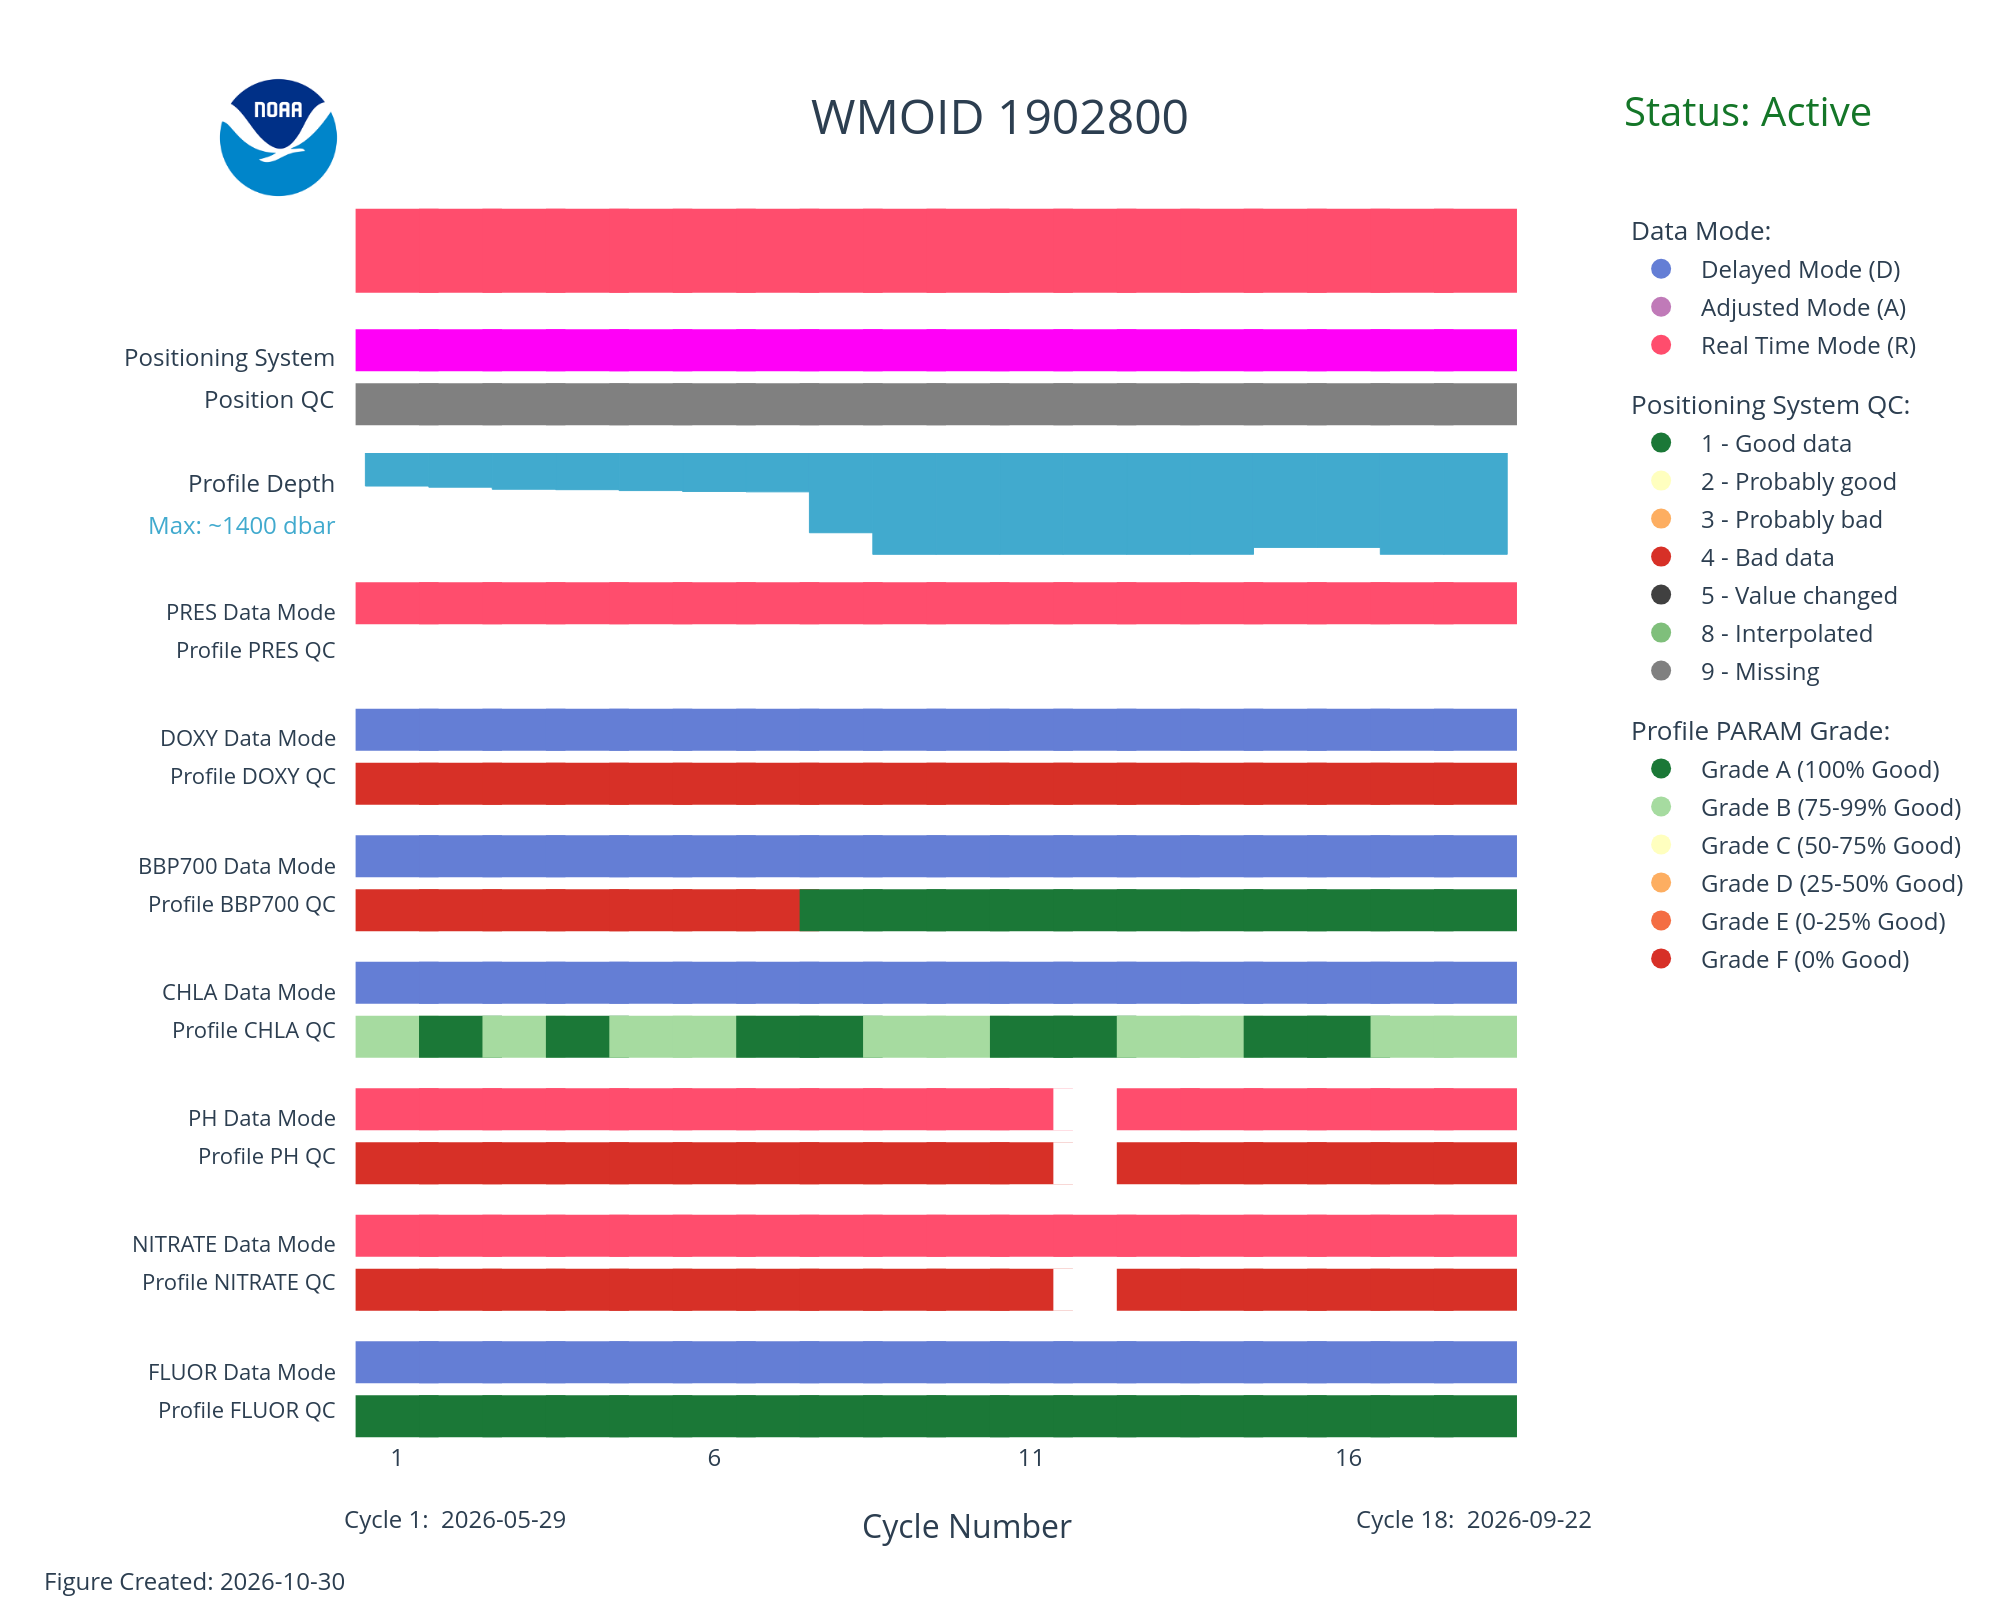
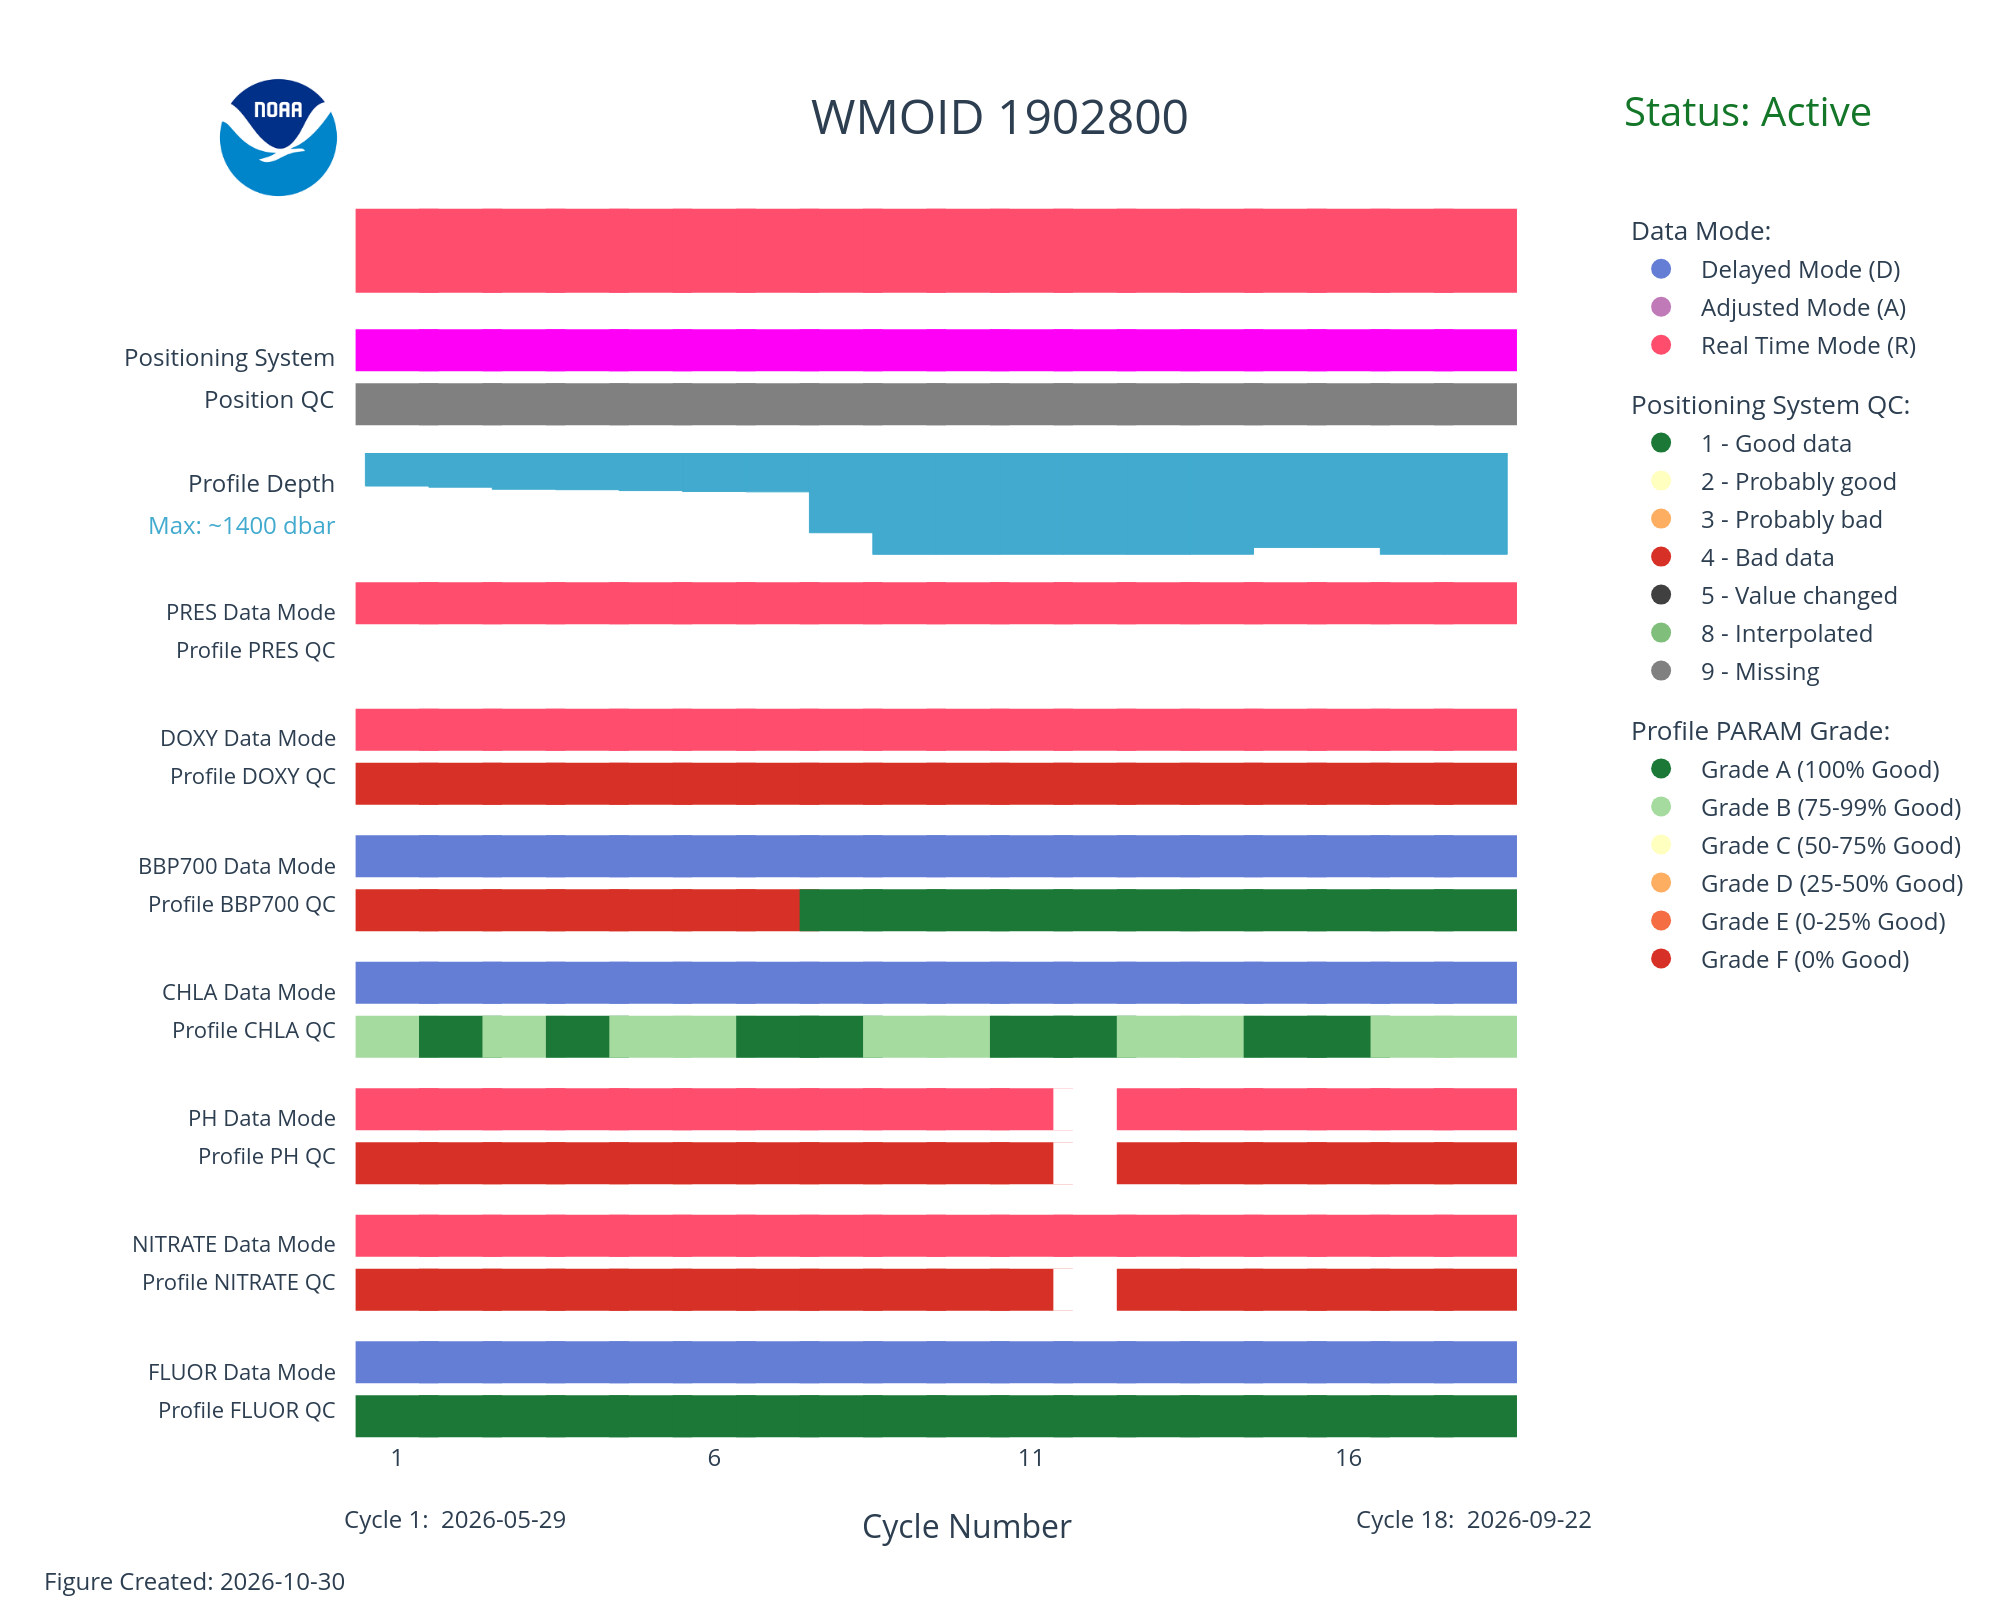
BD filler updated
This has been updated for correctness, missing data will still be an issue in the file checker as the consistency between R and D-modes throws an error.

Changed region(s): [[0.155, 0.4375, 0.775, 0.4688]]

diff --git a/Script/BD_Filler_BioOptics_DOXY.py b/Script/BD_Filler_BioOptics_DOXY.py
@@ -2,7 +2,7 @@
 # coding: utf-8
 
 # ==============================================================================
-# SECTION 1: Library Imports & Helper Functions
+# SECTION 1: Library Imports & Global Constants
 # ==============================================================================
 import datetime
 import gc
@@ -40,7 +40,7 @@ FLOAT_TYPES = {
     4903622: "aoml_apex",
     2904010: "aoml_apex",
     2904011: "aoml_apex",
-    4903624: "aoml_apex",
+    # 4903624 excluded from analysis
     4903625: "aoml_apex",
     4903904: "aoml_navis",
     6999992: "aoml_navis",
@@ -127,12 +127,23 @@ def is_missing_value(val):
 # SECTION 2: Architecture & NetCDF Helper Functions
 # ==============================================================================
 
+def safe_rename(from_file, to_file):
+    gc.collect()
+    try:
+        os.replace(from_file, to_file)
+    except OSError:
+        try:
+            shutil.copyfile(from_file, to_file)
+            os.remove(from_file)
+        except Exception:
+            pass
+
+
 def is_broken_sensor_float(WMOfloatid, cycle_num):
     float_str = str(WMOfloatid)
     cycle_num = int(cycle_num)
     return (
-        (float_str == "4903624")
-        | ((float_str == "2904010") & (cycle_num >= 49))
+        ((float_str == "2904010") & (cycle_num >= 49))
         | ((float_str == "2904011") & (cycle_num >= 24))
     )
 
@@ -255,9 +266,10 @@ def get_param_data_mode(bgc_file, iprof, param_base):
     return "R"
 
 
-def write_parameter_data_modes(bgc_file):
+def write_parameter_data_modes(bgc_file, WMOfloatid=None):
     n_param = bgc_file.dimensions["N_PARAM"].size
     n_prof = bgc_file.dimensions["N_PROF"].size
+    skip_doxy = WMOfloatid in DOXY_EXCLUDE_FLOAT_IDS if WMOfloatid is not None else False
 
     pdm = bgc_file.variables["PARAMETER_DATA_MODE"][:]
     data_mode = bgc_file.variables["DATA_MODE"][:]
@@ -275,6 +287,9 @@ def write_parameter_data_modes(bgc_file):
             ]).strip()
 
             if not p_str or "PH" in p_str or "NITRATE" in p_str:
+                continue
+
+            if skip_doxy and p_str == "DOXY":
                 continue
 
             if p_str == "PRES" or p_str.startswith("DOWN_IRRADIANCE") or p_str.startswith("UP_RADIANCE"):
@@ -503,7 +518,6 @@ def write_chla_BBP_adjusted(bgc_file, WMOfloatid, idx_profile, df_bio, iprof_idx
         CHLA_AdjustedQC_Array = get_existing_array("CHLA_ADJUSTED_QC", is_char=True)
         CHLA_Adjusted_ERROR_Array = get_existing_array("CHLA_ADJUSTED_ERROR")
 
-        # Fixed multi-element array boolean check bug by passing candidate list
         FLUORESCENCE_CHLA_Adjusted_Array = get_existing_array(["CHLA_FLUORESCENCE_ADJUSTED", "FLUORESCENCE_CHLA_ADJUSTED"])
         FLUORESCENCE_CHLA_AdjustedQC_Array = get_existing_array(["CHLA_FLUORESCENCE_ADJUSTED_QC", "FLUORESCENCE_CHLA_ADJUSTED_QC"], is_char=True)
         FLUORESCENCE_CHLA_Adjusted_ERROR_Array = get_existing_array(["CHLA_FLUORESCENCE_ADJUSTED_ERROR", "FLUORESCENCE_CHLA_ADJUSTED_ERROR"])
@@ -517,7 +531,6 @@ def write_chla_BBP_adjusted(bgc_file, WMOfloatid, idx_profile, df_bio, iprof_idx
             if matched_row is None:
                 continue
 
-            # Update CHLA only if valid in CSV
             if "CHLA_FINAL" in matched_row and pd.notna(matched_row.get("CHLA_FINAL")):
                 chla_final_val = matched_row.get("CHLA_FINAL")
                 if not is_missing_value(chla_final_val):
@@ -529,7 +542,6 @@ def write_chla_BBP_adjusted(bgc_file, WMOfloatid, idx_profile, df_bio, iprof_idx
                     if CHLA_Adjusted_ERROR_Array is not None:
                         CHLA_Adjusted_ERROR_Array[i] = np.float32(CHLA_Adjusted_ERROR_est)
 
-            # Update Fluorescence only if valid in CSV
             if fluo_csv_col is not None and pd.notna(matched_row.get(fluo_csv_col)):
                 fluo_csv_val = matched_row.get(fluo_csv_col)
                 if not is_missing_value(fluo_csv_val):
@@ -725,8 +737,9 @@ def write_DOXY_from_csv(ds, float_df, target_cycle, WMOfloatid=None):
             ds.variables["DOXY_ADJUSTED_ERROR"][iprof, :] = DOXY_Adjusted_Error_Array
 
 
-def update_profile_qc_grades(bgc_file):
+def update_profile_qc_grades(bgc_file, WMOfloatid=None):
     n_prof = bgc_file.dimensions["N_PROF"].size
+    skip_doxy = WMOfloatid in DOXY_EXCLUDE_FLOAT_IDS if WMOfloatid is not None else False
 
     for var_name in list(bgc_file.variables.keys()):
         if not var_name.startswith("PROFILE_") or not var_name.endswith("_QC"):
@@ -735,6 +748,9 @@ def update_profile_qc_grades(bgc_file):
             continue
 
         param_base = var_name[8:-3]
+        if skip_doxy and param_base == "DOXY":
+            continue
+
         target_prof = detect_parameter_profile(bgc_file, param_base)
         mode = get_param_data_mode(bgc_file, target_prof, param_base)
 
@@ -875,18 +891,6 @@ def write_history_metadata(bgc_file, iprof_chla, iprof_doxy, WMOfloatid=None):
 
     if "DATE_UPDATE" in bgc_file.variables:
         bgc_file.variables["DATE_UPDATE"][:] = nc.stringtochar(np.array(UTCcurrent, dtype="S14"))
-
-
-def safe_rename(from_file, to_file):
-    gc.collect()
-    try:
-        os.replace(from_file, to_file)
-    except OSError:
-        try:
-            shutil.copyfile(from_file, to_file)
-            os.remove(from_file)
-        except Exception:
-            pass
 
 
 # ==============================================================================
@@ -1964,8 +1968,8 @@ for idx_f, WMOfloatid in enumerate(WMO_FLOAT_IDS, start=1):
             iprof_bbp = detect_parameter_profile(ds, "BBP700")
             iprof_doxy = detect_parameter_profile(ds, "DOXY")
 
-            # 1. Update PARAMETER_DATA_MODE and DATA_MODE
-            write_parameter_data_modes(ds)
+            # 1. Update PARAMETER_DATA_MODE and DATA_MODE (DOXY skipped for excluded floats)
+            write_parameter_data_modes(ds, WMOfloatid=WMOfloatid)
 
             # 2. Process calibrations and CSV adjustments (only writing valid entries from CSV)
             write_scientific_calib_chla(ds, WMOfloatid, idx_profile, df_bio)
@@ -1974,16 +1978,20 @@ for idx_f, WMOfloatid in enumerate(WMO_FLOAT_IDS, start=1):
             write_DOXY_slope_drift(ds, 0, df_bio, idx_profile, WMOfloatid=WMOfloatid)
             write_DOXY_from_csv(ds, df_bio, idx_profile, WMOfloatid=WMOfloatid)
 
-            # 3. Update PROFILE_<PARAM>_QC based on evaluated levels
-            update_profile_qc_grades(ds)
+            # 3. Update PROFILE_<PARAM>_QC based on evaluated levels (DOXY skipped for excluded floats)
+            update_profile_qc_grades(ds, WMOfloatid=WMOfloatid)
 
             # 4. Metadata and attributes
             write_history_metadata(ds, iprof_chla, iprof_doxy, WMOfloatid=WMOfloatid)
             add_missing_valid_range_attributes(ds)
             remove_forbidden_attributes(ds)
 
+            active_iprofs = [iprof_chla, iprof_bbp]
+            if WMOfloatid not in DOXY_EXCLUDE_FLOAT_IDS:
+                active_iprofs.append(iprof_doxy)
+
             for i in range(ds.dimensions["N_PROF"].size):
-                if i in [iprof_chla, iprof_bbp, iprof_doxy]:
+                if i in active_iprofs:
                     ds.variables["DATA_STATE_INDICATOR"][i, :] = nc.stringtochar(
                         np.array("2C  ", dtype="S4")
                     )
